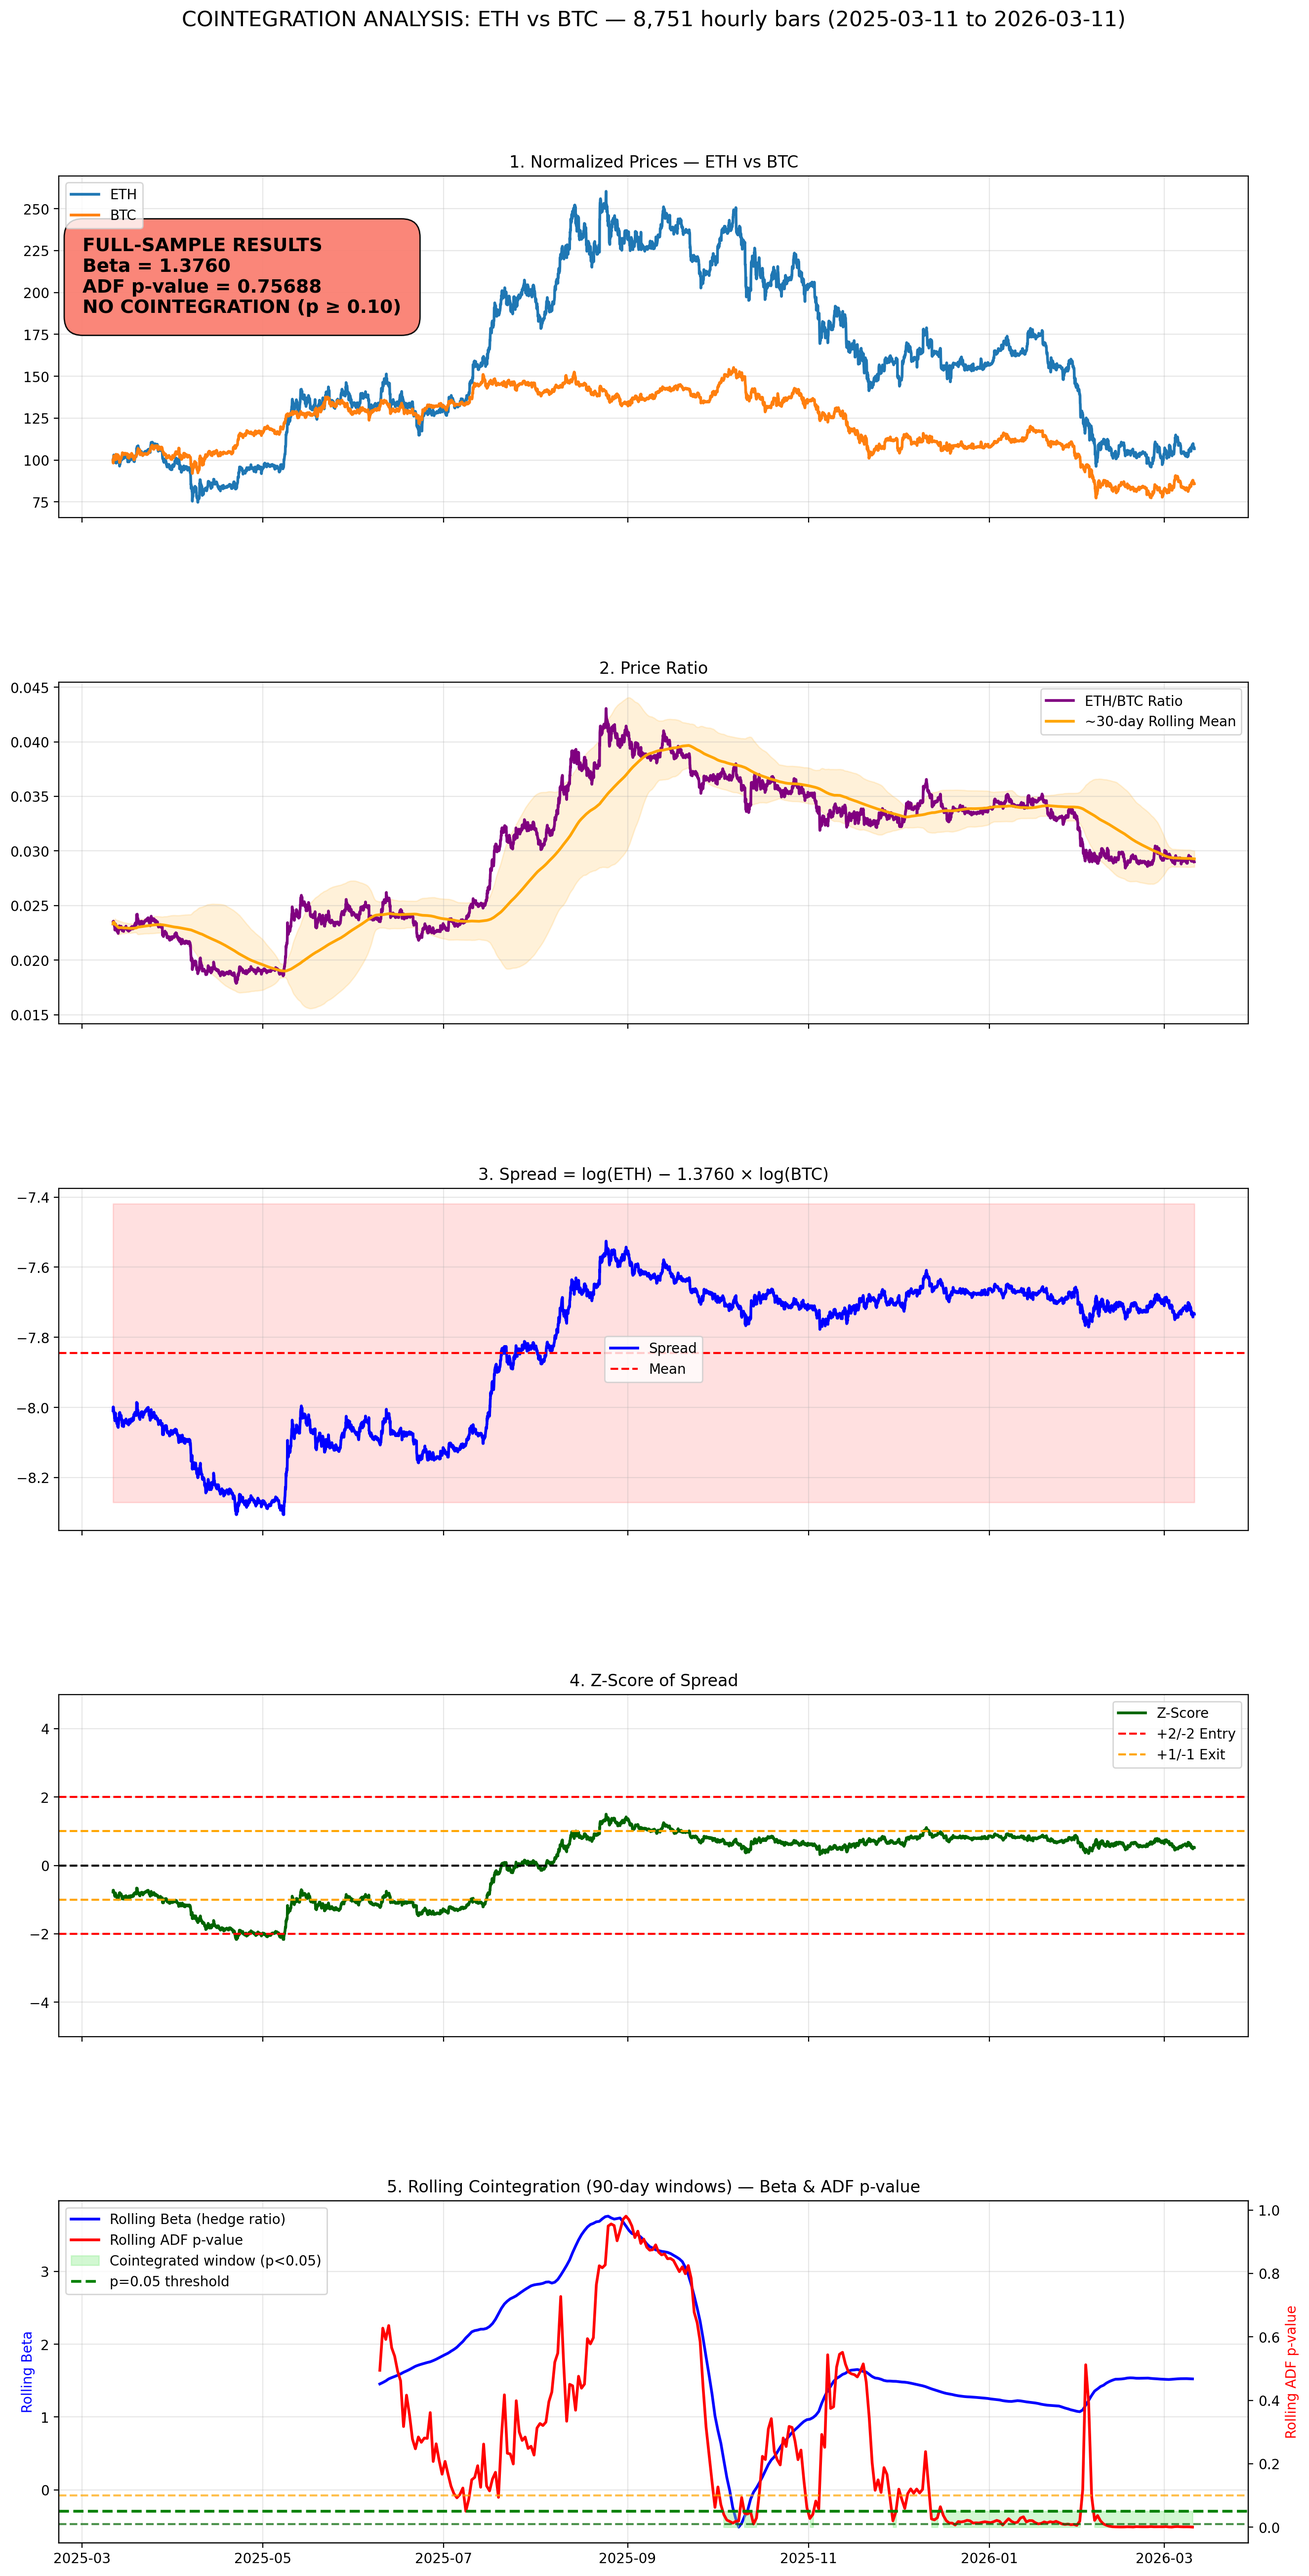
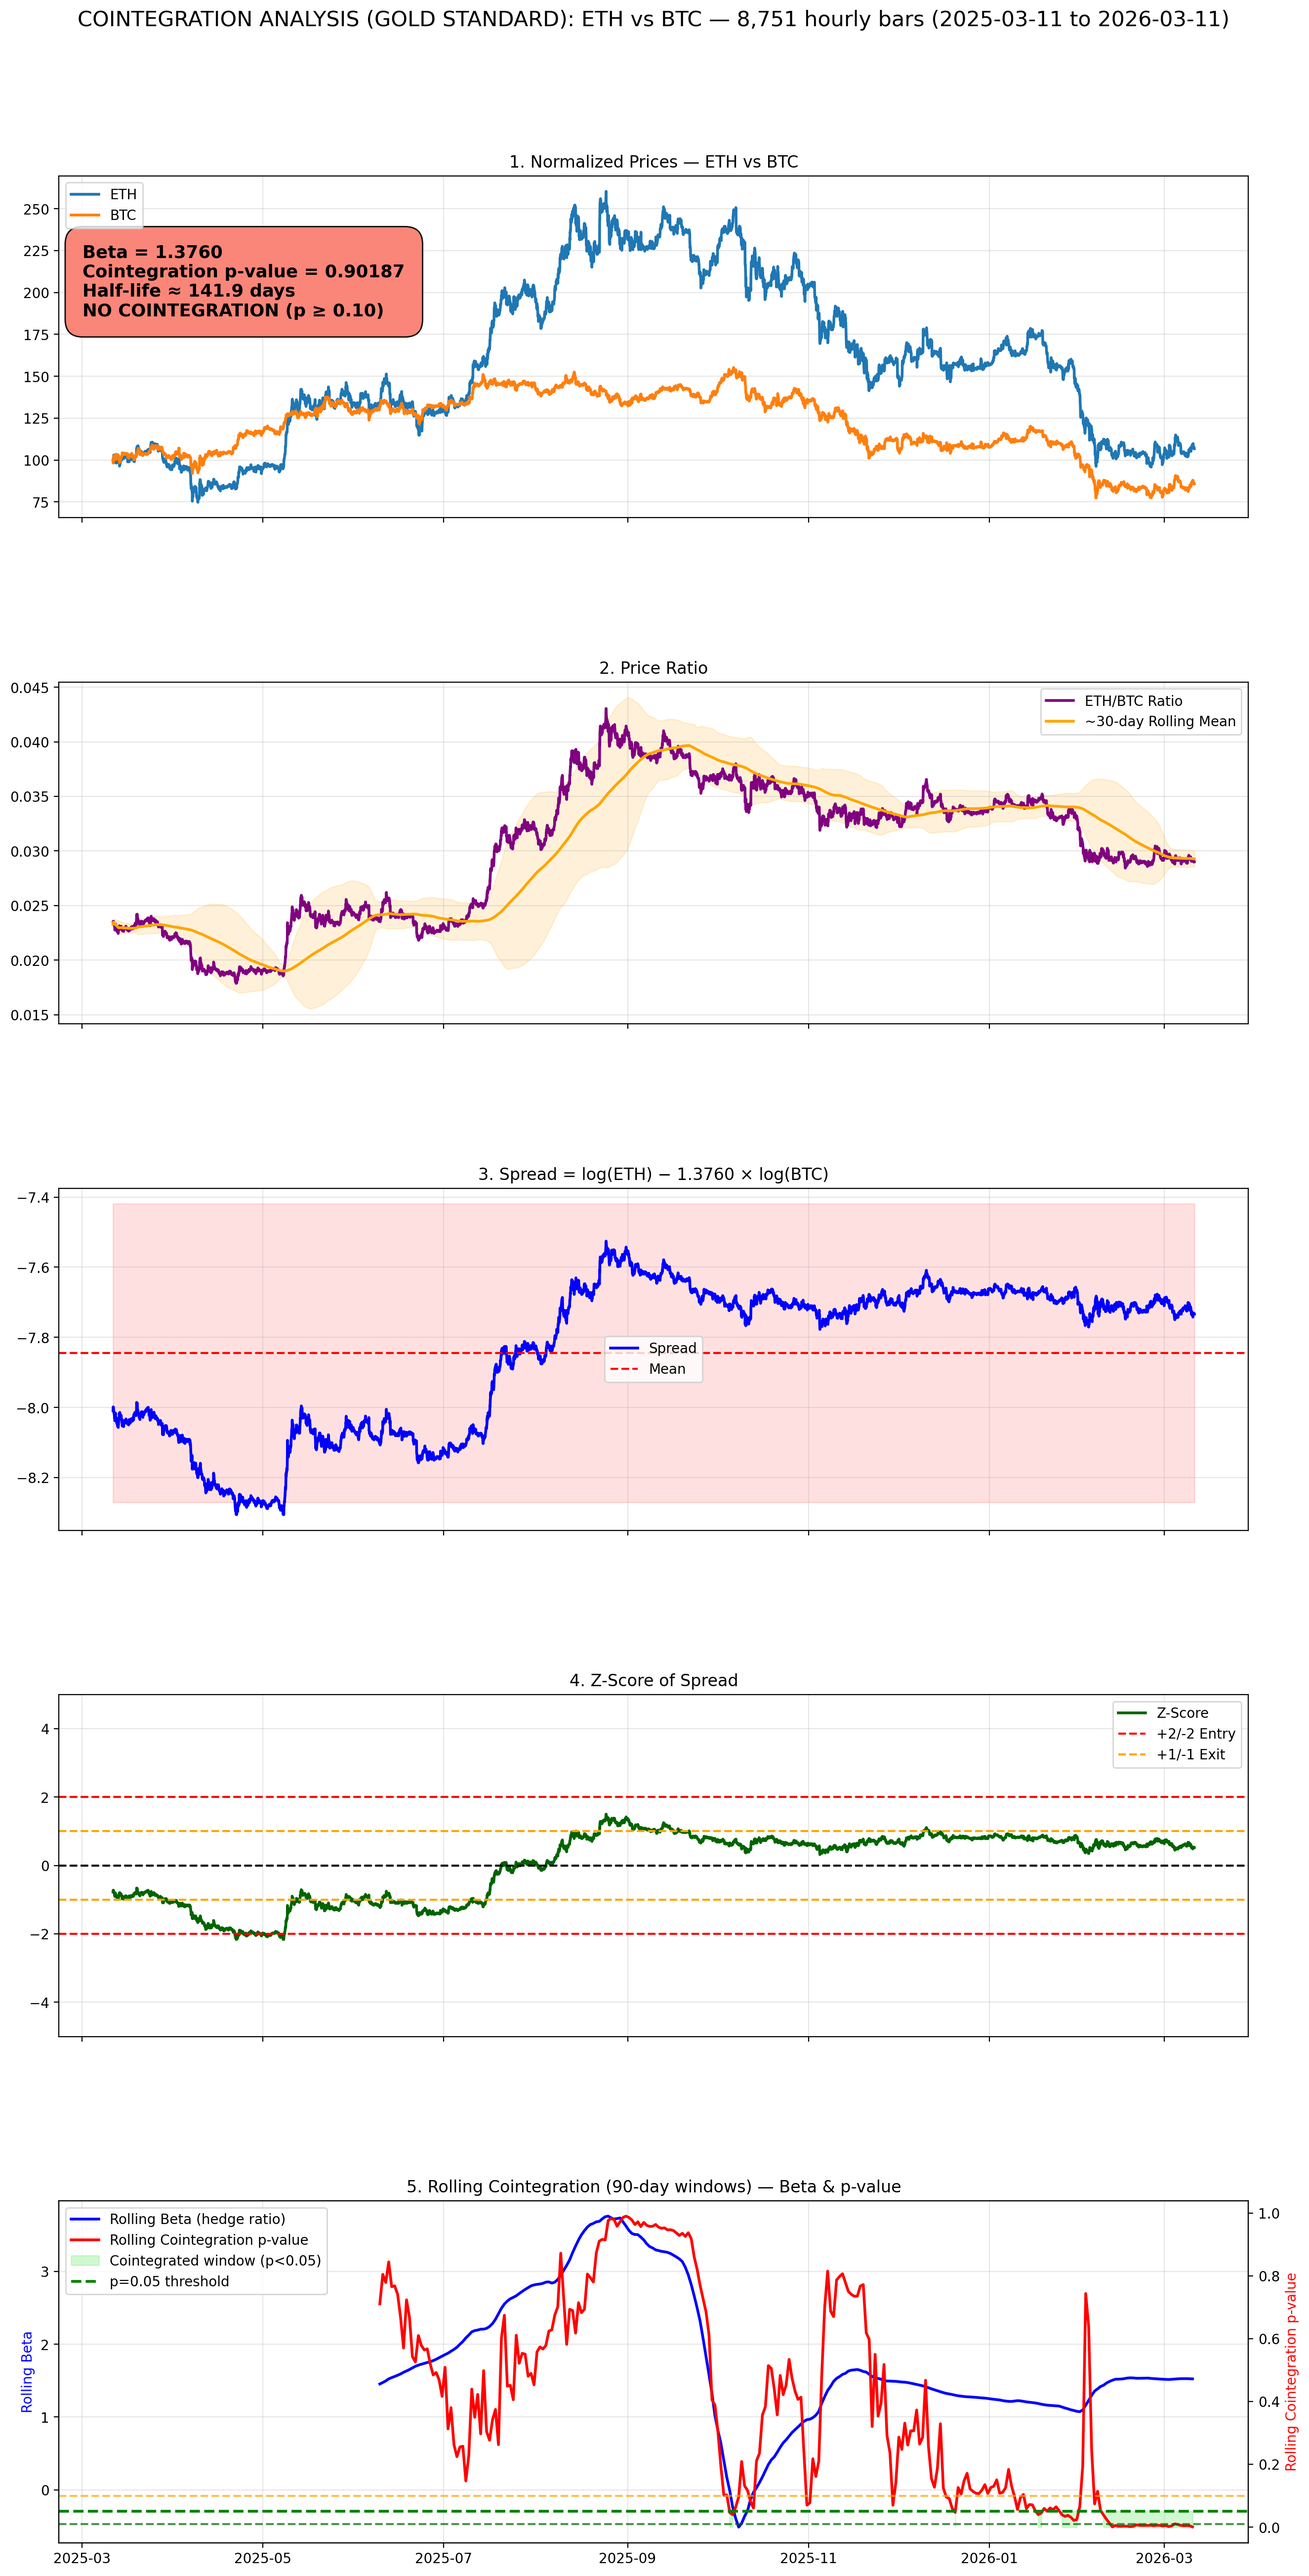
perhaps more accurate cointegration value

diff --git a/src/pcv2/draw_cointegration_chart.py b/src/pcv2/draw_cointegration_chart.py
@@ -3,18 +3,15 @@ import pandas as pd
 import numpy as np
 import matplotlib.pyplot as plt
 from statsmodels.api import OLS, add_constant
-from statsmodels.tsa.stattools import adfuller
+from statsmodels.tsa.stattools import coint
 import os
 
 class CointegrationChart:
     """
-    Clean, reusable class for generating the full 5-chart cointegration analysis.
-    - Works exactly like before from the command line
-    - Defaults to ETH/BTC if no arguments are provided (super convenient!)
-    - Emojis ONLY in console output
-    - dpi=200
-    - No plt.show() → instant run
-    - FIXED LAYOUT: verdict box inside Chart 1 (Beta → ADF p-value → Verdict)
+    Gold-standard cointegration analysis + Half-life (clean verdict box).
+    - Full-sample + rolling use coint() on LOG prices with autolag='AIC'
+    - Half-life (OU process) in console + verdict box
+    - Verdict box now cleaner (no title line + slightly smaller font)
     """
 
     DEFAULT_CSV = "top100_hourly_1year_combined.csv"
@@ -31,6 +28,7 @@ class CointegrationChart:
         self.spread = None
         self.zscore = None
         self.p_value = None
+        self.half_life_days = None
         self.verdict_console = ""
         self.verdict_chart = ""
         self.box_color = ""
@@ -59,15 +57,26 @@ class CointegrationChart:
         log_p1 = np.log(self.p1)
         log_p2 = np.log(self.p2)
 
+        # === Beta & spread ===
         X = add_constant(log_p2)
         model = OLS(log_p1, X).fit()
         self.beta = model.params.iloc[1]
         self.spread = log_p1 - self.beta * log_p2
         self.zscore = (self.spread - self.spread.mean()) / self.spread.std()
 
-        adf = adfuller(self.spread, maxlag=1, regression='c')
-        self.p_value = adf[1]
+        # === GOLD-STANDARD COINTEGRATION ===
+        _, self.p_value, _ = coint(log_p1, log_p2, autolag='AIC')
 
+        # === HALF-LIFE ===
+        lagged = self.spread.shift(1).dropna()
+        delta = self.spread.diff().dropna()
+        X_ou = add_constant(lagged)
+        ou_model = OLS(delta, X_ou).fit()
+        kappa = -ou_model.params.iloc[1]
+        half_life_hours = np.log(2) / kappa if kappa > 1e-8 else float('inf')
+        self.half_life_days = half_life_hours / 24
+
+        # === Verdict ===
         if self.p_value < 0.01:
             self.verdict_console = "✅ STRONG COINTEGRATION (p < 0.01)"
             self.verdict_chart = "STRONG COINTEGRATION (p < 0.01)"
@@ -85,9 +94,11 @@ class CointegrationChart:
             self.verdict_chart = "NO COINTEGRATION (p ≥ 0.10)"
             self.box_color = 'salmon'
 
-        print("\n=== FULL-SAMPLE RESULTS ===")
+        print("\n=== FULL-SAMPLE RESULTS (GOLD STANDARD) ===")
         print(f"Hedge ratio (beta): {self.beta:.4f}")
-        print(f"ADF p-value: {self.p_value:.6f} → {self.verdict_console}")
+        print(f"Cointegration p-value: {self.p_value:.6f}")
+        print(f"Half-life: {self.half_life_days:.1f} days")
+        print(f"→ {self.verdict_console}")
 
     def _compute_rolling(self):
         print("\nComputing rolling cointegration (90-day windows, updated daily)...")
@@ -109,11 +120,10 @@ class CointegrationChart:
             model_win = OLS(log_p1_win, X_win).fit()
             beta_win = model_win.params.iloc[1]
 
-            spread_win = log_p1_win - beta_win * log_p2_win
-            adf_win = adfuller(spread_win, maxlag=1, regression='c')
+            _, pval_win, _ = coint(log_p1_win, log_p2_win, autolag='AIC')
 
             self.rolling_betas.append(beta_win)
-            self.rolling_pvals.append(adf_win[1])
+            self.rolling_pvals.append(pval_win)
             self.rolling_dates.append(log_p1.index[i + window - 1])
 
         print(f"Rolling windows computed: {len(self.rolling_dates)}")
@@ -124,7 +134,6 @@ class CointegrationChart:
         self.ratio_rolling_std = self.ratio.rolling(window=720, min_periods=1).std()
 
     def generate(self):
-        """Main method — everything + instant PNG save, no warning, no pause"""
         self._load_data()
         self._compute_full_sample()
         self._compute_rolling()
@@ -138,7 +147,7 @@ class CointegrationChart:
 
         fig.subplots_adjust(top=0.905, bottom=0.05, left=0.07, right=0.93, hspace=0.48)
 
-        # ==================== CHART 1 (with verdict box) ====================
+        # ==================== CHART 1 ====================
         norm1 = self.p1 / self.p1.iloc[0] * 100
         norm2 = self.p2 / self.p2.iloc[0] * 100
         axs[0].plot(norm1.index, norm1, label=self.sym1, linewidth=2)
@@ -147,18 +156,18 @@ class CointegrationChart:
         axs[0].legend(loc='upper left')
         axs[0].grid(True, alpha=0.3)
 
-        # === VERDICT BOX (Beta appears BEFORE ADF p-value) ===
-        axs[0].text(0.02, 0.82,
-                    f"FULL-SAMPLE RESULTS\n"
+        # === CLEAN VERDICT BOX (no title line + slightly smaller font) ===
+        axs[0].text(0.02, 0.80,
                     f"Beta = {self.beta:.4f}\n"
-                    f"ADF p-value = {self.p_value:.5f}\n"
+                    f"Cointegration p-value = {self.p_value:.5f}\n"
+                    f"Half-life ≈ {self.half_life_days:.1f} days\n"
                     f"{self.verdict_chart}",
                     transform=axs[0].transAxes,
-                    fontsize=13.5, ha='left', va='top', fontweight='bold',
+                    fontsize=12.8, ha='left', va='top', fontweight='bold',
                     bbox=dict(boxstyle="round,pad=1.0", facecolor=self.box_color,
                               alpha=0.95, edgecolor='black'))
 
-        # ==================== CHARTS 2–5 ====================
+        # ==================== CHARTS 2–5 (unchanged) ====================
         axs[1].plot(self.ratio.index, self.ratio, label=f"{self.sym1}/{self.sym2} Ratio",
                     color='purple', linewidth=2)
         axs[1].plot(self.ratio_rolling_mean.index, self.ratio_rolling_mean,
@@ -197,7 +206,7 @@ class CointegrationChart:
         ax_beta.plot(self.rolling_dates, self.rolling_betas, color='blue', linewidth=2,
                      label='Rolling Beta (hedge ratio)')
         ax_p.plot(self.rolling_dates, self.rolling_pvals, color='red', linewidth=2,
-                  label='Rolling ADF p-value')
+                  label='Rolling Cointegration p-value')
 
         pvals_arr = np.array(self.rolling_pvals)
         dates_arr = pd.to_datetime(self.rolling_dates)
@@ -210,15 +219,15 @@ class CointegrationChart:
         ax_p.axhline(0.10, color='orange', linestyle='--', alpha=0.7)
 
         ax_beta.set_ylabel('Rolling Beta', color='blue')
-        ax_p.set_ylabel('Rolling ADF p-value', color='red')
-        ax_beta.set_title("5. Rolling Cointegration (90-day windows) — Beta & ADF p-value")
+        ax_p.set_ylabel('Rolling Cointegration p-value', color='red')
+        ax_beta.set_title("5. Rolling Cointegration (90-day windows) — Beta & p-value")
         ax_beta.grid(True, alpha=0.3)
 
         lines1, labels1 = ax_beta.get_legend_handles_labels()
         lines2, labels2 = ax_p.get_legend_handles_labels()
         ax_beta.legend(lines1 + lines2, labels1 + labels2, loc='upper left', fontsize=10)
 
-        fig.suptitle(f"COINTEGRATION ANALYSIS: {self.sym1} vs {self.sym2} — "
+        fig.suptitle(f"COINTEGRATION ANALYSIS (GOLD STANDARD): {self.sym1} vs {self.sym2} — "
                      f"{len(self.p1):,} hourly bars "
                      f"({self.p1.index[0].date()} to {self.p1.index[-1].date()})",
                      fontsize=15.5, y=0.965)
@@ -226,7 +235,7 @@ class CointegrationChart:
         output_file = f"cointegration_{self.sym1}_{self.sym2}_with_rolling.png"
         plt.savefig(output_file, dpi=200, bbox_inches='tight')
         plt.close(fig)
-        print(f"\n✅ Saved: {output_file} (Beta-first verdict box + ETH/BTC default support)")
+        print(f"\n✅ Saved: {output_file} (cleaner verdict box + half-life)")
 
 if __name__ == "__main__":
     if len(sys.argv) == 4:
@@ -238,7 +247,6 @@ if __name__ == "__main__":
         sym1 = sys.argv[1]
         sym2 = sys.argv[2]
     elif len(sys.argv) == 1:
-        # Default fallback as requested
         csv_file = None
         sym1 = "ETH"
         sym2 = "BTC"
